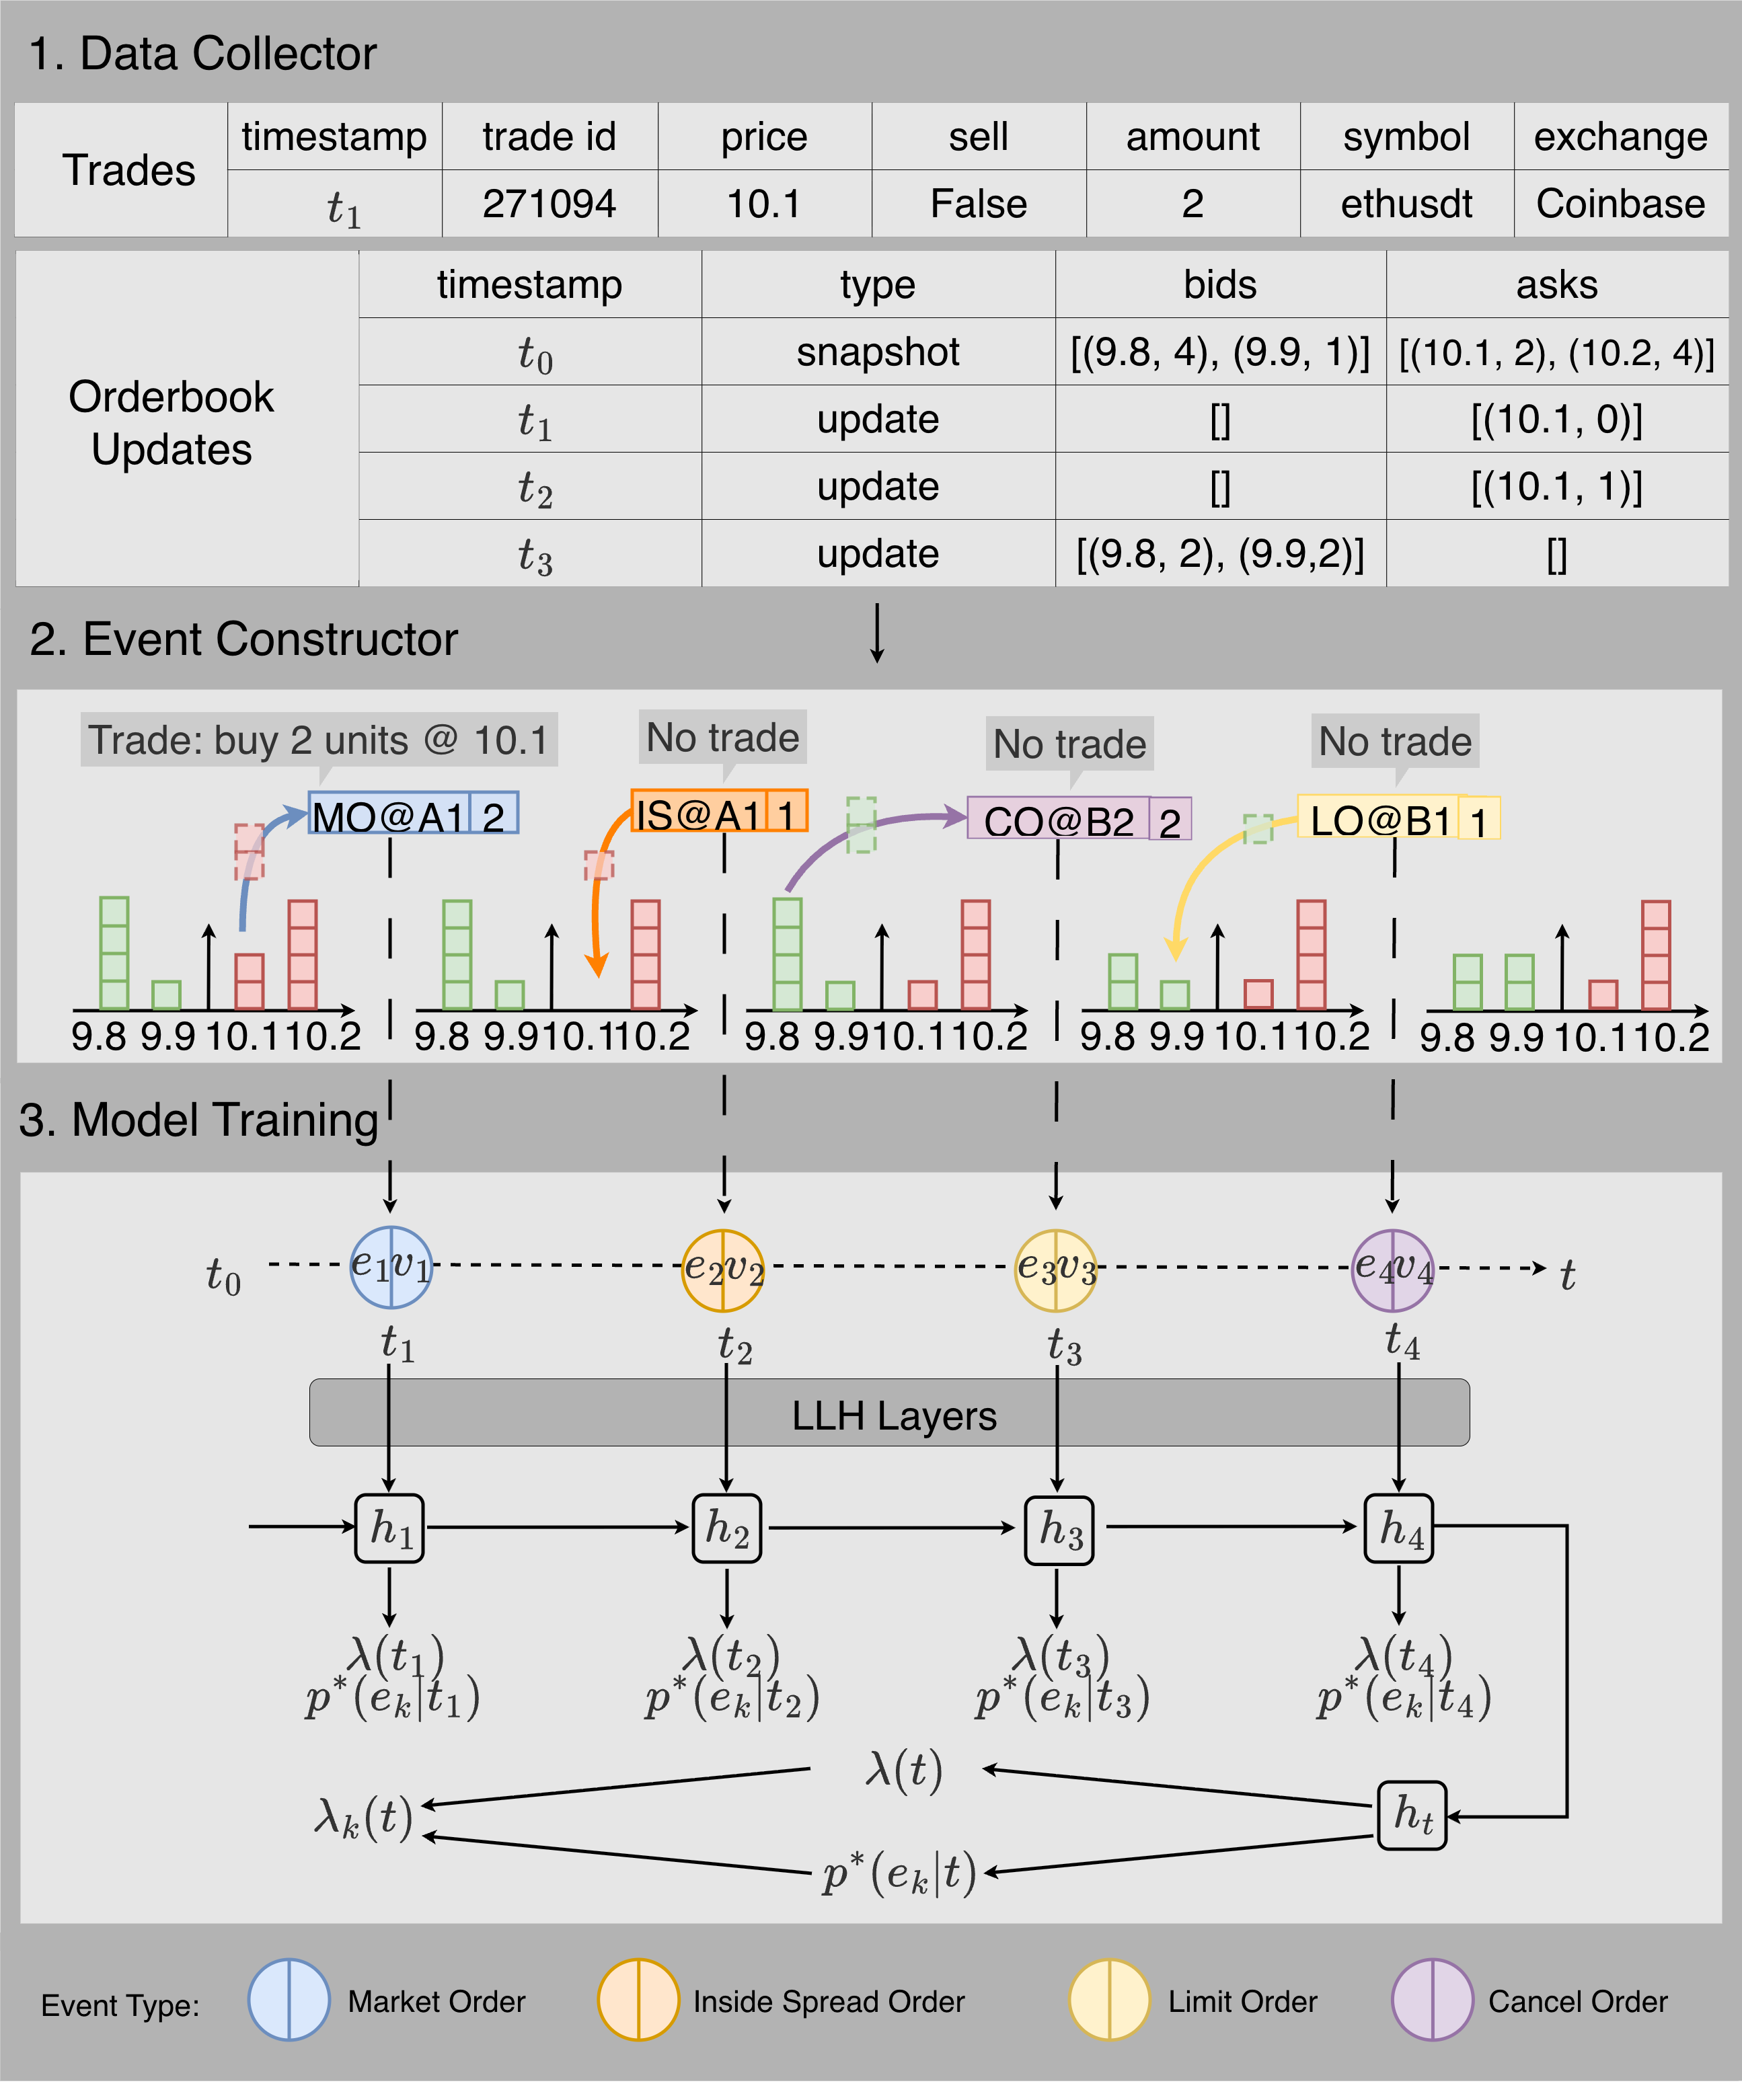
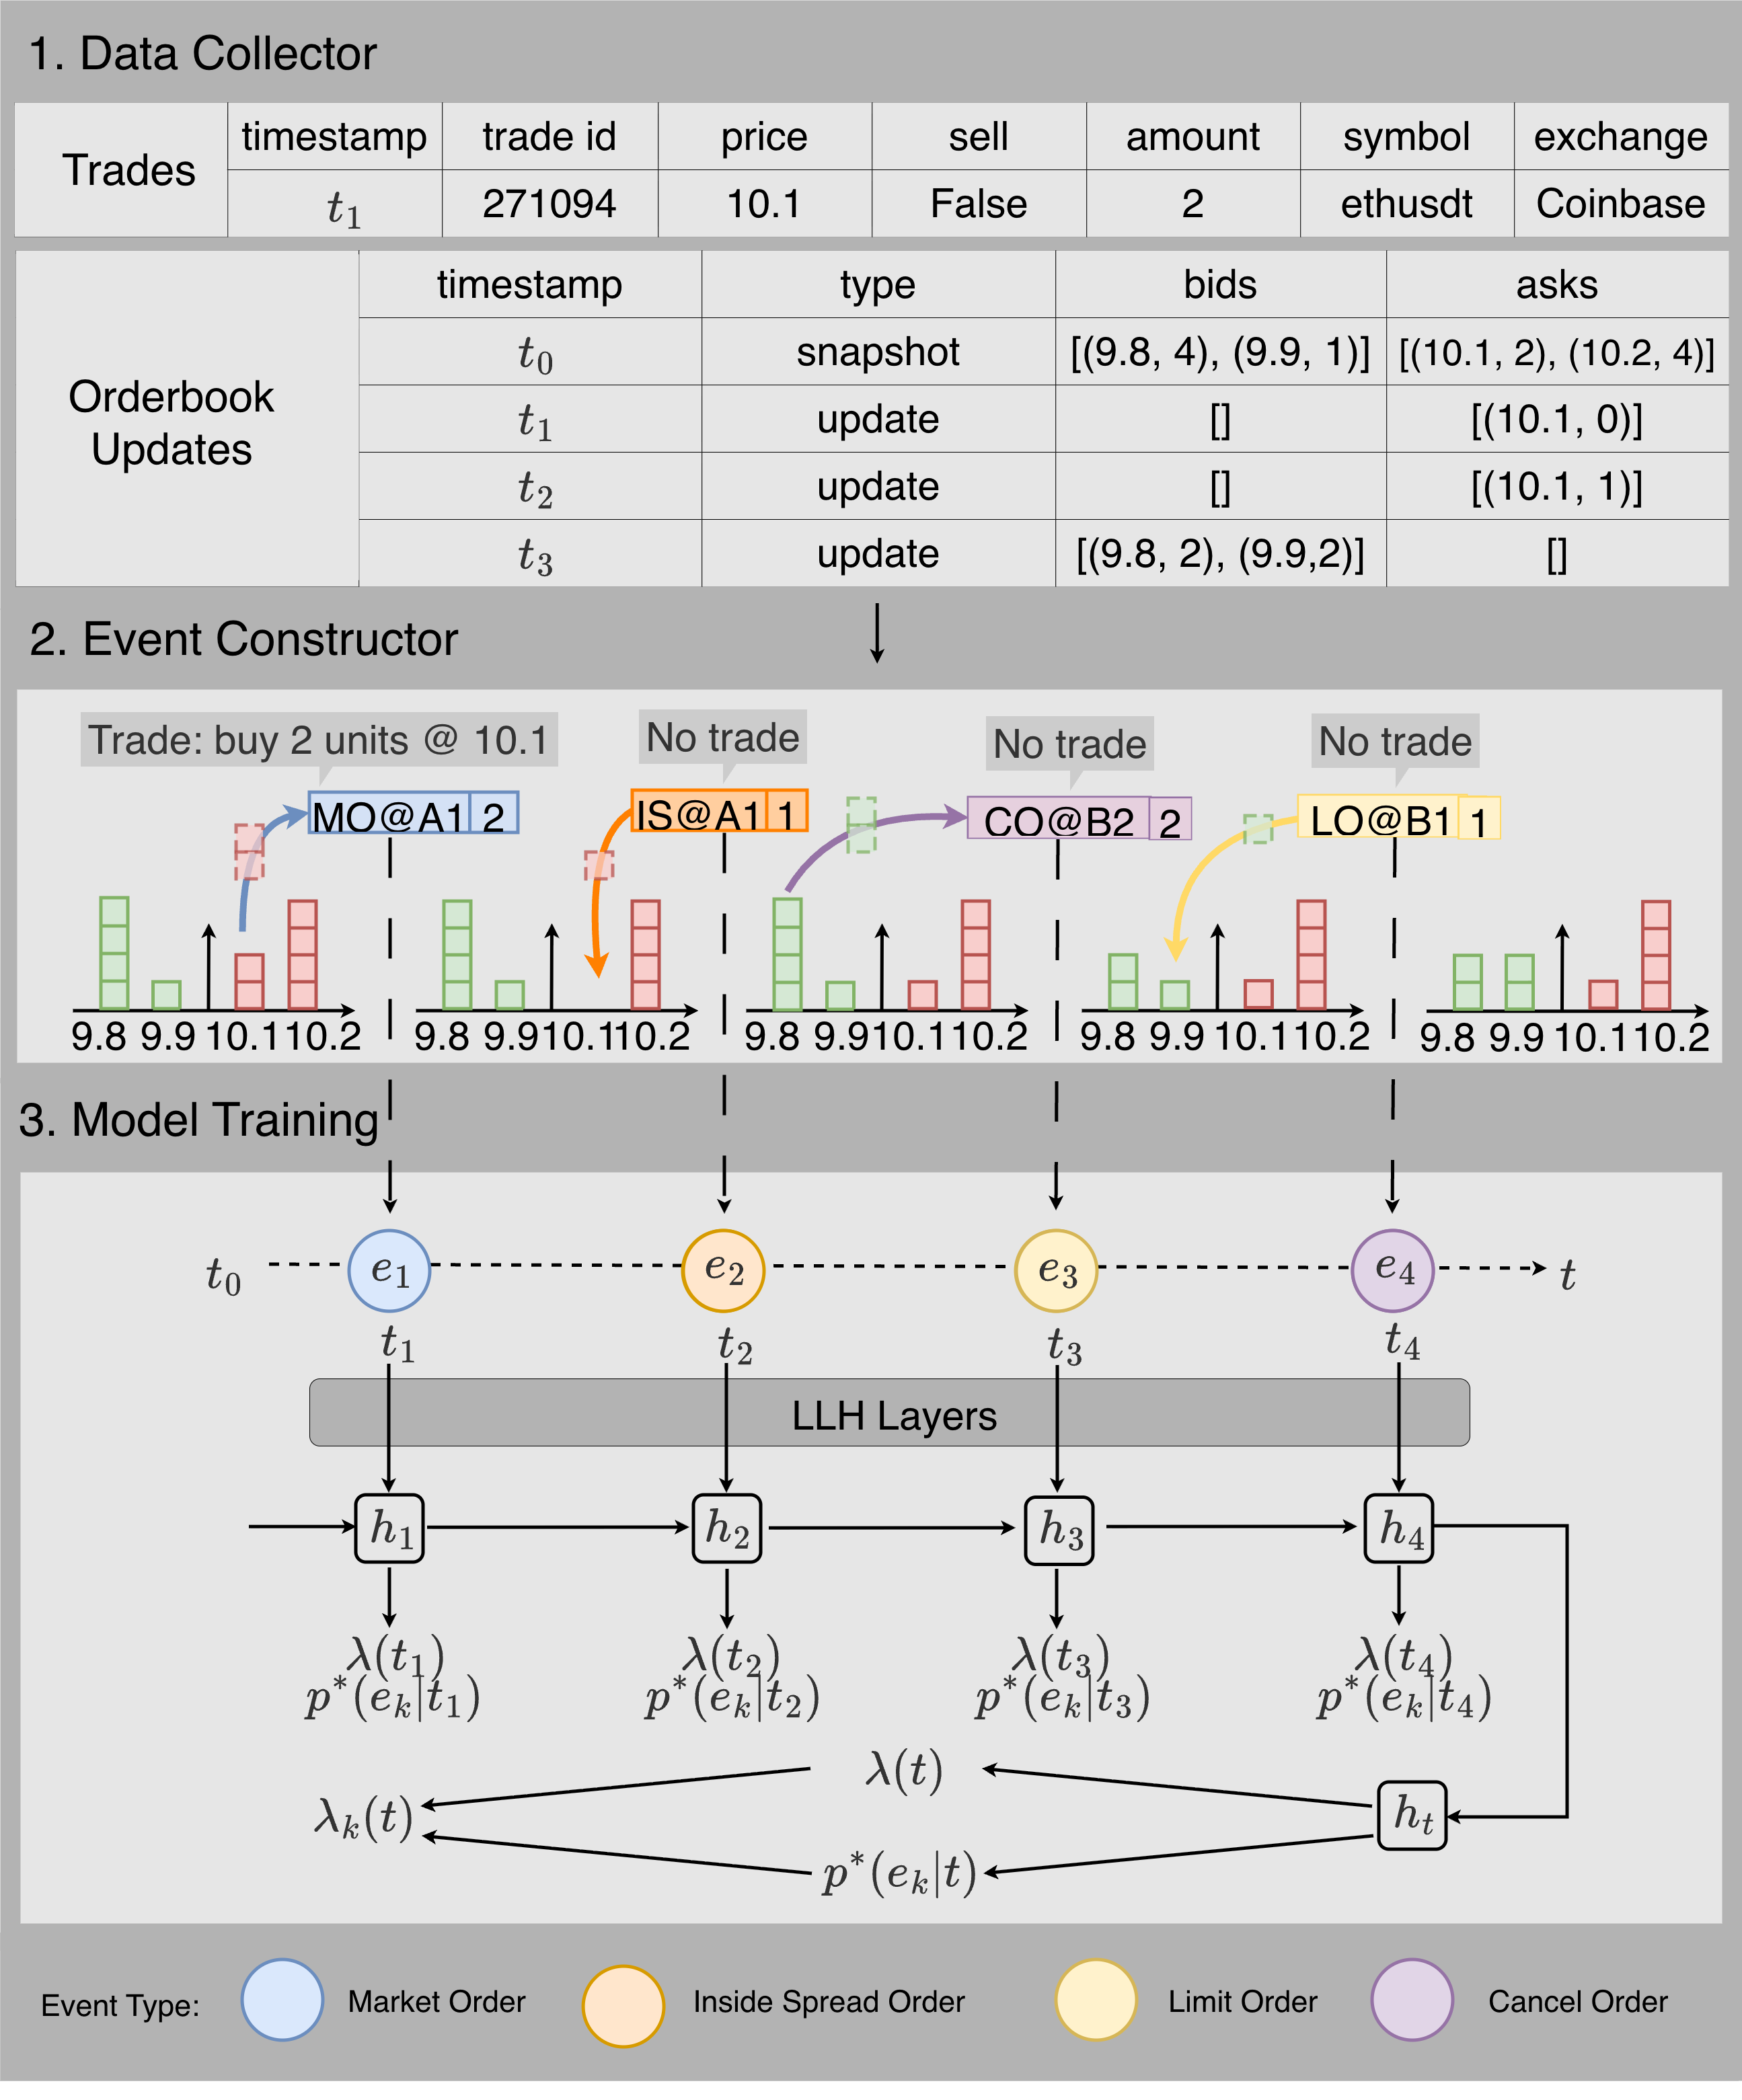
before evaluation

diff --git a/paper/section/experiments.tex b/paper/section/experiments.tex
@@ -5,7 +5,7 @@
 \label{sec:setup}
 We benchmark on Coinbase BTC, ETH, and SOL event-driven order flow, seven days
 per asset (validation-split rates $38.3$, $47.9$, and $24.0$ events/s), encoded
-by the TFOW event constructor \citep{fu2026tfow} of the Methods section:
+by the event constructor:
 $|\mathcal{E}|=62$ atomic types
 ($20+20+2+20$ over LO/CO/MO/IS, sides, and levels). Six models --- \nhp{} (the Mei--Eisner CT-LSTM), an LSTM decoder and
 a SAHP-style causal-attention decoder \citep{zhang2020self} (both \emph{adapted